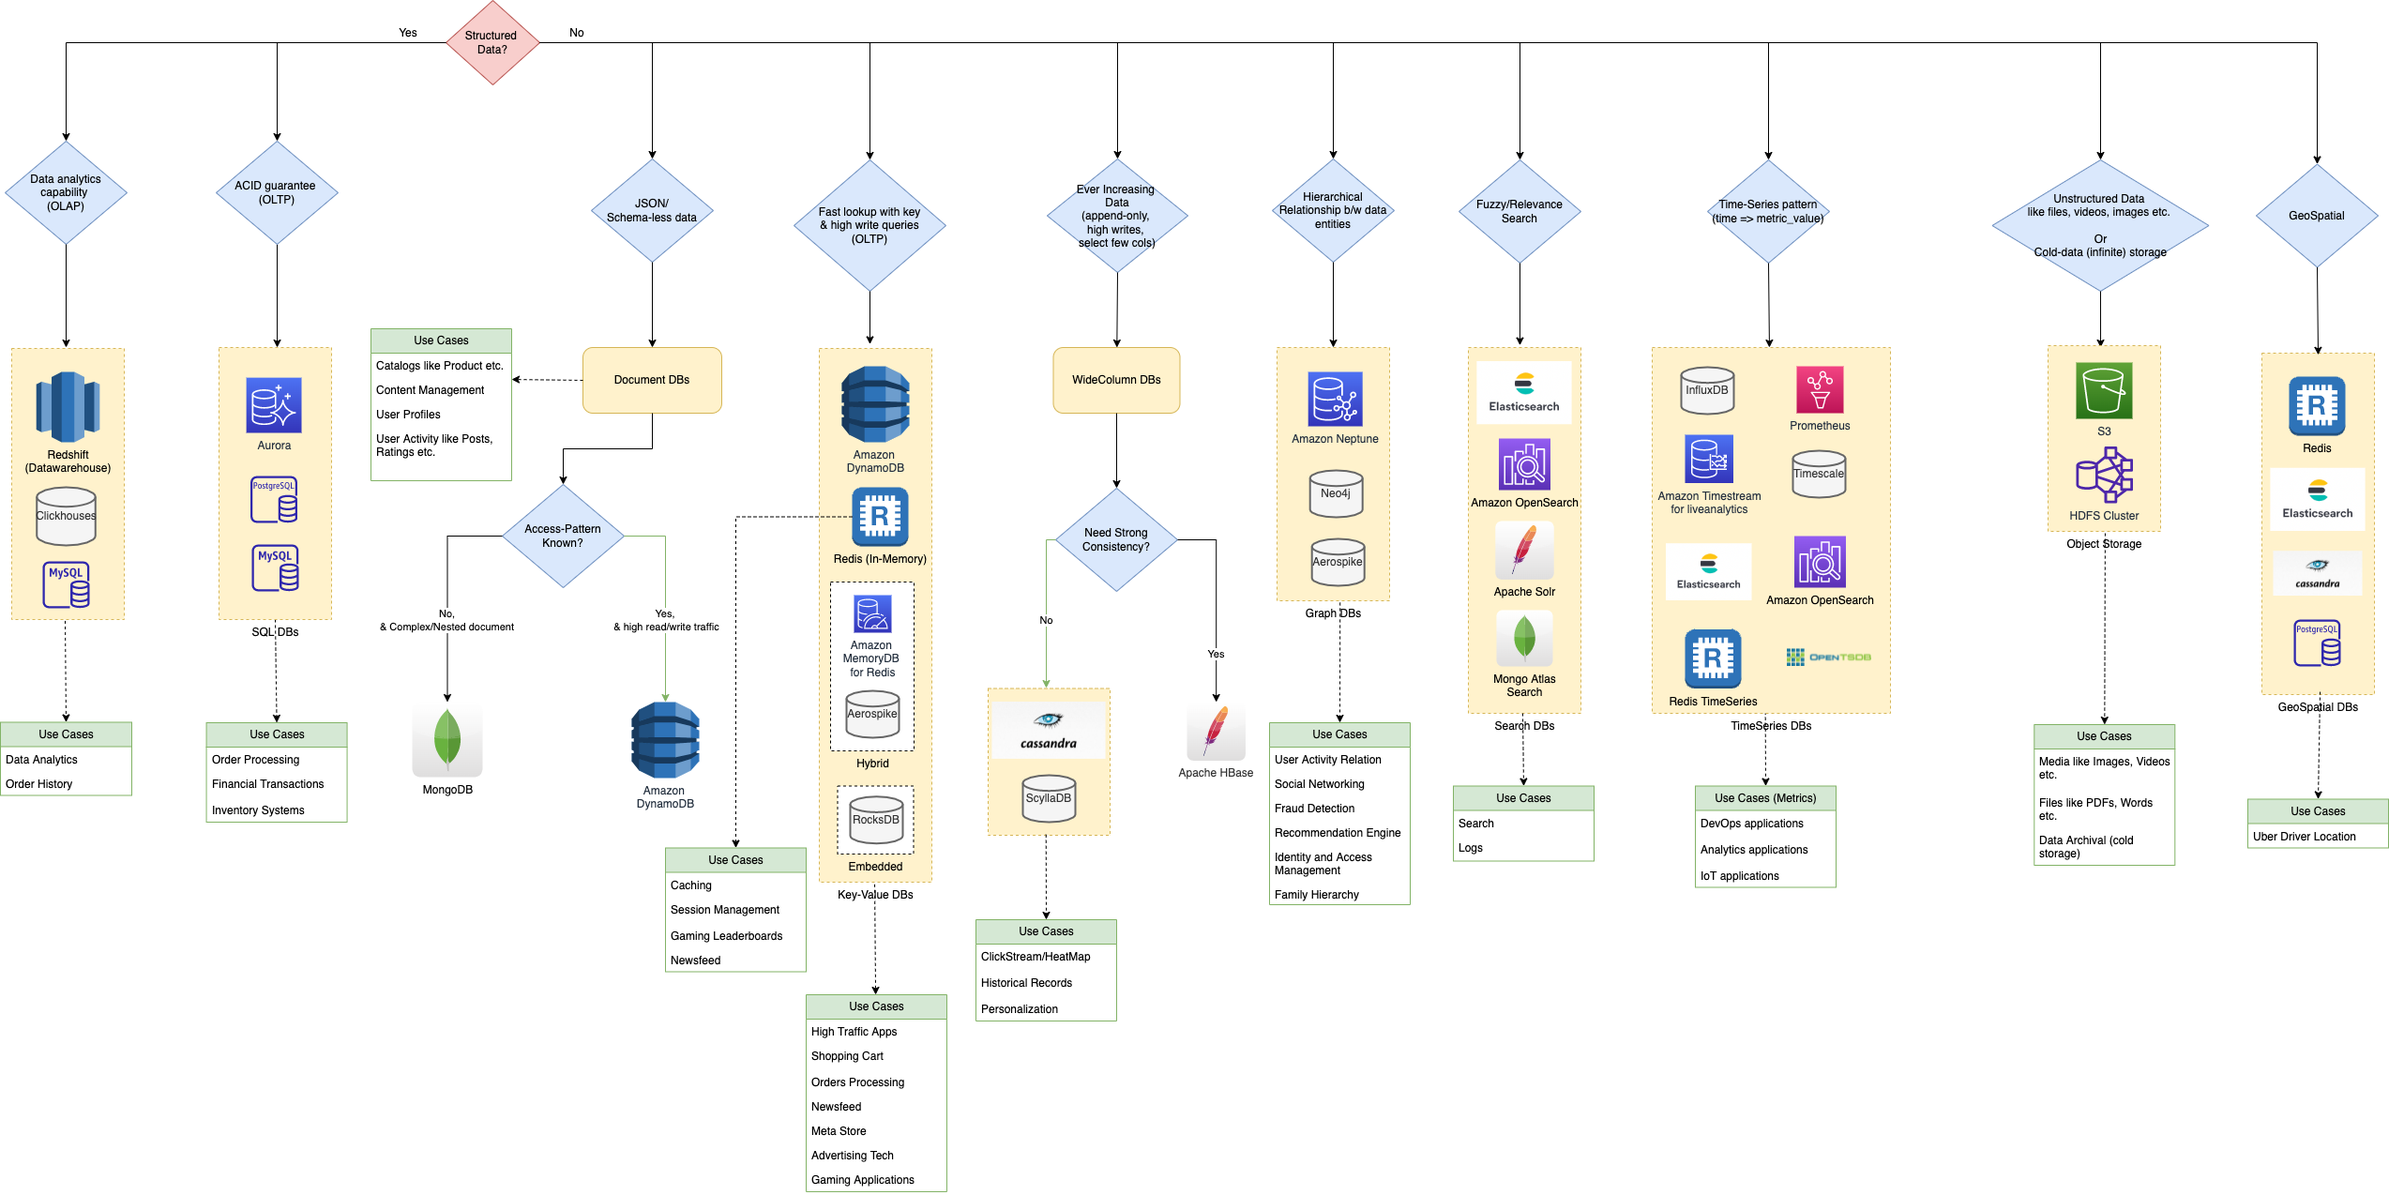
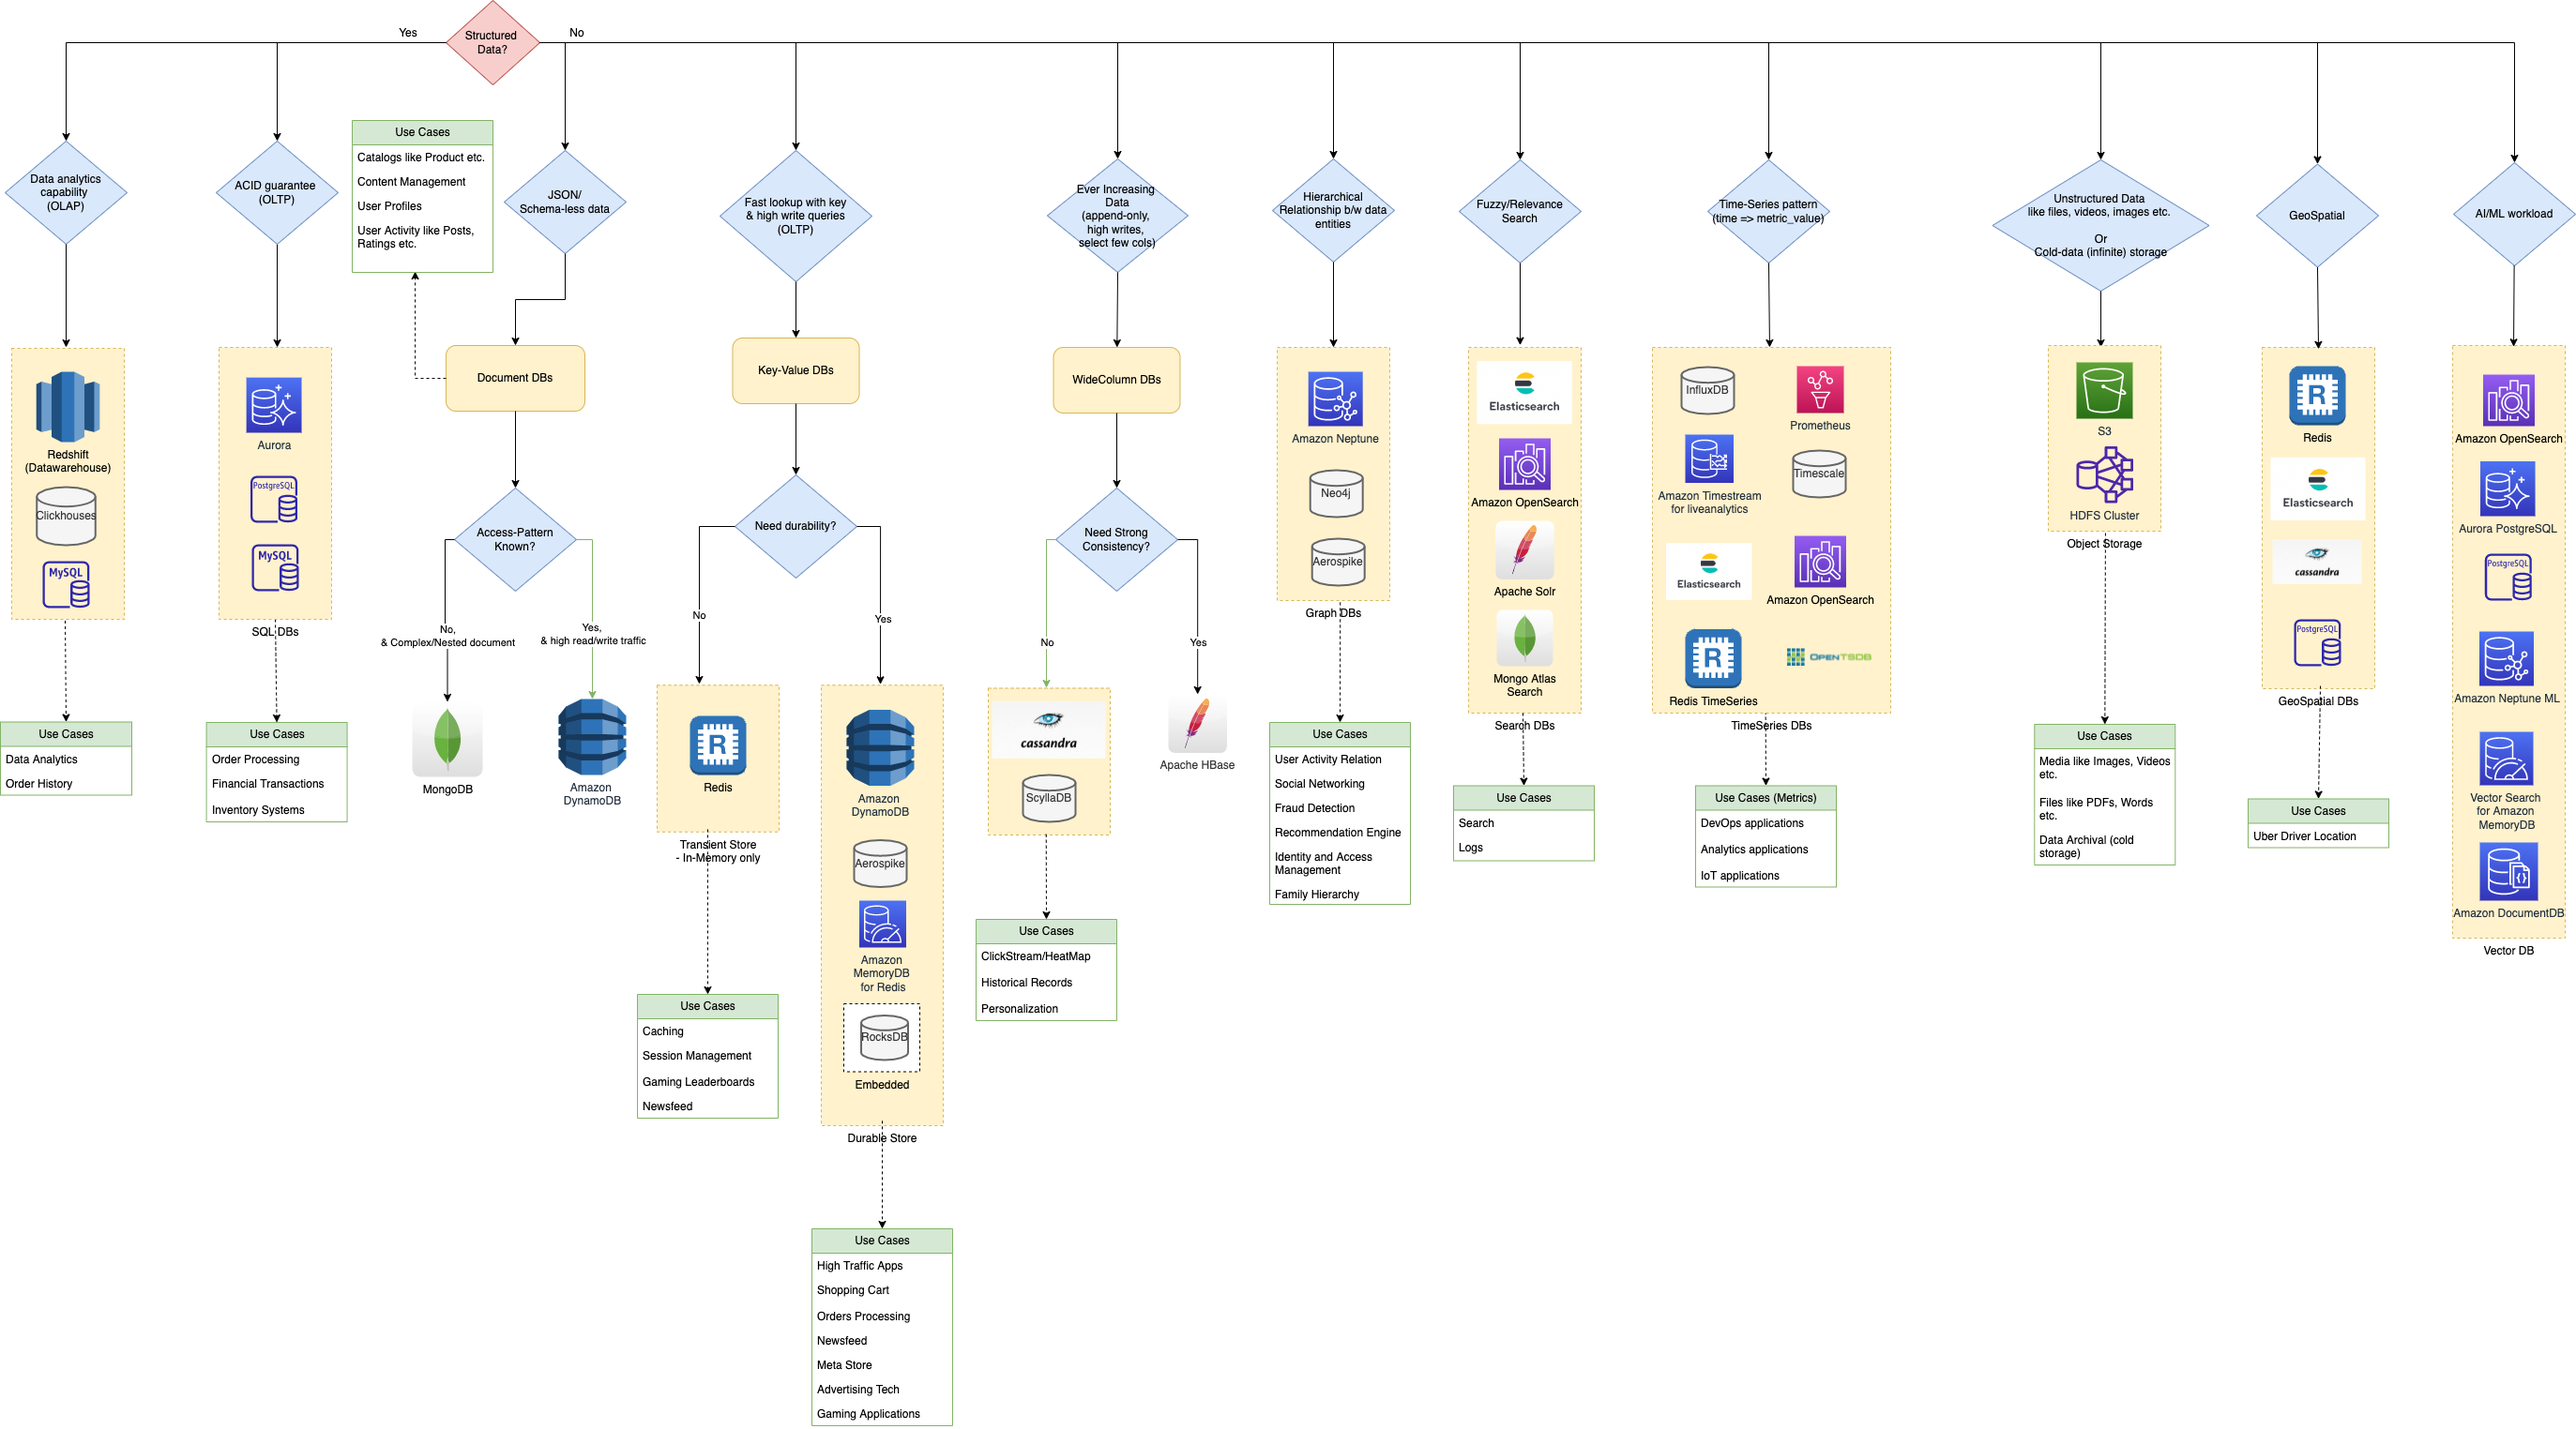
Commit

Changed region(s): [[0.0, 0.0, 1.0, 0.8265], [0.3102, 0.7653, 0.4653, 1.0], [0.7134, 0.6429, 0.7754, 0.7347]]

diff --git a/3_Databases/8_InMemory-Databases/Redis/Readme.md b/3_Databases/8_InMemory-Databases/Redis/Readme.md
@@ -28,7 +28,8 @@
 
 | Supported features                                           | Remarks                                                                                                                                                                                                                                                                  |
 |--------------------------------------------------------------|--------------------------------------------------------------------------------------------------------------------------------------------------------------------------------------------------------------------------------------------------------------------------|
-| Speed - 100K queries per second                              | Since Redis uses **in-memory** for storage, it is very fast. Generally, [Redis is 5 times faster than database](../../../7c_SystemEstimations&Benchmarking/LatencyNumbers.md). <br/>- Mostly **O(1) behavior**, to get data from redis.                                     |
+| Speed - 100K queries per second                              | Since Redis uses **in-memory** for storage, it is very fast. Generally, [Redis is 5 times faster than database](../../../7c_SystemEstimations&Benchmarking/LatencyNumbers.md). <br/>- Mostly **O(1) behavior**, to get data from redis.                                  |
+| Redis Value - Ideal Size                                     | The ideal size of redis value is less than [100 KB](https://stackoverflow.com/questions/55517224/what-is-the-ideal-value-size-range-for-redis-is-100kb-too-large).                                                                                                                                                                                                                       |
 | Transaction (atomicity)                                      | Using [Redis Transaction lock](https://redis.io/docs/reference/patterns/distributed-locks/), we can achieve [atomicity](../../1_ACIDTransactions/Atomicity.md) on the Redis operations (i.e. set/increase the key, add/remove elements from set, increase counter etc.). |
 | Multiple data types                                          | [Multiple data types](https://redis.io/docs/manual/data-types/) are supported in Redis.                                                                                                                                                                                  |
 | [Rich Client-Side library](https://redis.io/docs/libraries/) | Go, Java, PHP, C/C++ etc.                                                                                                                                                                                                                                                |
@@ -37,7 +38,7 @@
 | Data Persistence                                             | It's generally suggested to turn off persistence on the master node, so that you get consistent low latency response time.<br/>- No forking to disk will be done.<br/>- No wasted I/O.                                                                                   |
 | LRU Eviction Policy                                          | [LRU is the default eviction policy](https://docs.redis.com/latest/rs/databases/configure/eviction-policy/) in redis.                                                                                                                                                    |
 | Lua Scripting                                                | Using Redis **EVAL** command, [server-side Lua scripts](https://redis.io/commands/eval/) can be invoked.                                                                                                                                                                 |
-| Redis Pipelining                                             | Redis pipelining is a technique for improving performance by issuing multiple commands at once without waiting for the response to each individual command. [Read more](https://redis.io/docs/latest/develop/use/pipelining/)                                                                                                |
+| Redis Pipelining                                             | Redis pipelining is a technique for improving performance by issuing multiple commands at once without waiting for the response to each individual command. [Read more](https://redis.io/docs/latest/develop/use/pipelining/)                                            |
 | [Redis vs Memcache](../RedisVsMemcache.md)                   |                                                                                                                                                                                                                                                                          |
 
 # Data types supported (for value)

diff --git a/3_Databases/8_InMemory-Databases/Redis/RedisLeaderFollowReplication.md b/3_Databases/8_InMemory-Databases/Redis/RedisLeaderFollowReplication.md
@@ -7,10 +7,10 @@
 
 # Advantages of Replication
 
-| Advantage                                                                                   | Description                                                                                                                                                                                                           |
-|---------------------------------------------------------------------------------------------|-----------------------------------------------------------------------------------------------------------------------------------------------------------------------------------------------------------------------|
-| [High availability](../../../7a_HighAvailability/Readme.md) | If leader node goes down, the follower can be immediately promoted, so you don't experience any downtime.                                                                                                             |
-| [Scalability (Read Queries)](../../3_ScalabilityTechniques/Readme.md)                                          | Under extremely high read load, you could balance the `reads between the master and follower`.<br/>- Although it would be recommended to setup up additional `no persistence, memory only` follower for that purpose. |
+| Advantage                                                             | Description                                                                                                                                                                                                           |
+|-----------------------------------------------------------------------|-----------------------------------------------------------------------------------------------------------------------------------------------------------------------------------------------------------------------|
+| [High availability](../../../7a_HighAvailability/Readme.md)           | If leader node goes down, the follower can be immediately promoted, so you don't experience any downtime.                                                                                                             |
+| [Scalability (Read Queries)](../../3_ScalabilityTechniques/Readme.md) | Under extremely high read load, you could balance the `reads between the master and follower`.<br/>- Although it would be recommended to setup up additional `no persistence, memory only` follower for that purpose. |
 
 # How to configure replication in Redis?
 - Just add the following line to the replica configuration file `redis.conf`.

diff --git a/3_Databases/8_InMemory-Databases/CachingStrategies.md b/3_Databases/8_InMemory-Databases/CachingStrategies.md
@@ -1,8 +1,6 @@
-# Caching Strategies
+# Caching strategies
 
-| Strategy                   |
-|----------------------------|
-| Cache-Aside (Lazy Loading) |
-| Write-Through              |
-
-[Read more](https://docs.aws.amazon.com/whitepapers/latest/database-caching-strategies-using-redis/caching-patterns.html)
+| Strategy                                                                                            | Description                                                                                                                                                                            | Read-Performance           |
+|-----------------------------------------------------------------------------------------------------|----------------------------------------------------------------------------------------------------------------------------------------------------------------------------------------|----------------------------|
+| :star: [Write-through](https://docs.aws.amazon.com/AmazonElastiCache/latest/mem-ug/Strategies.html) | [Write-through strategy](https://docs.aws.amazon.com/AmazonElastiCache/latest/mem-ug/Strategies.html) adds data or updates data in the cache whenever data is written to the database. | Better than "lazy-loading" |
+| [Lazy loading](https://docs.aws.amazon.com/AmazonElastiCache/latest/mem-ug/Strategies.html)         | [Lazy loading](https://docs.aws.amazon.com/AmazonElastiCache/latest/mem-ug/Strategies.html) is a caching strategy that loads data into the cache only when necessary.                  |                            |

diff --git a/1_TechStacks/PayPal.md b/1_TechStacks/PayPal.md
@@ -1,10 +1,10 @@
 # Tech Stack
 
-| Purpose           | Service                                                      |
-|-------------------|--------------------------------------------------------------|
-| Data Streaming    | [Apache Kafka](../4_MessageBrokersEDA/Kafka/Readme.md)          |
+| Purpose           | Service                                                       |
+|-------------------|---------------------------------------------------------------|
+| Data Streaming    | [Apache Kafka](../4_MessageBrokersEDA/Kafka/Readme.md)        |
 | NoSQL InMemory DB | [Aerospike](../3_Databases/8_InMemory-Databases/AeroSpike.md) |
-| SQL DB            | PostgreSQL                                                   |
+| SQL DB            | PostgreSQL                                                    |
 
 # Scaling Kafka to Support PayPal’s Data Growth
 

diff --git a/3_Databases/VectorDatabases.md b/3_Databases/VectorDatabases.md
@@ -1,0 +1,5 @@
+# Vector Databases
+- [Vector databases](https://aws.amazon.com/what-is/vector-databases/) provide the ability to store and retrieve vectors as high-dimensional points. 
+- They add additional capabilities for efficient and fast lookup of nearest-neighbors in the N-dimensional space. 
+- They are typically powered by k-nearest neighbor (k-NN) indexes and built with algorithms like the Hierarchical Navigable Small World (HNSW) and Inverted File Index (IVF) algorithms. 
+- Vector databases provide additional capabilities like data management, fault tolerance, authentication and access control, and a query engine. 

diff --git a/3_Databases/8_InMemory-Databases/AeroSpike.md b/3_Databases/8_InMemory-Databases/AeroSpike.md
@@ -9,7 +9,7 @@
 
 # :star: Real world use cases of AeroSpike
 - [Zomato - System Design](../../0_HLDUseCasesProblems/FoodOrderingZomatoSwiggy/Readme.md)
-- [Paypal - System Design](../../1_TechStacks/PayPal.md)
+- [Paypal](../../1_TechStacks/PayPal.md)
 - [Dream11 - Hybrid](https://aerospike.com/customers/dream11/)
 - [PhonePe](../../1_TechStacks/PhonePe.md)
 
